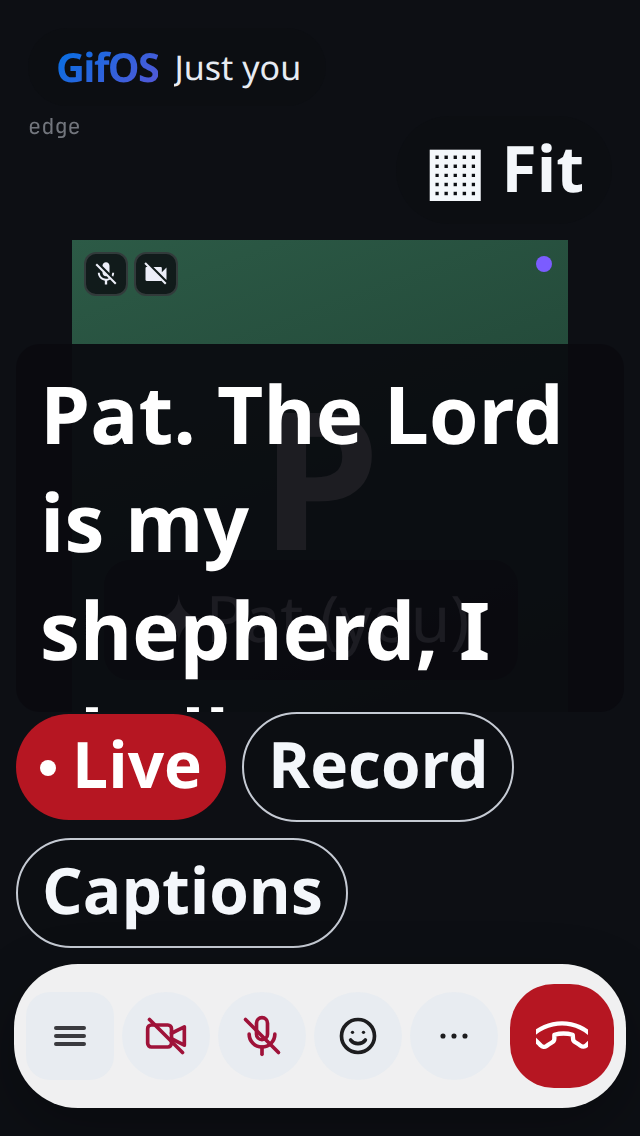
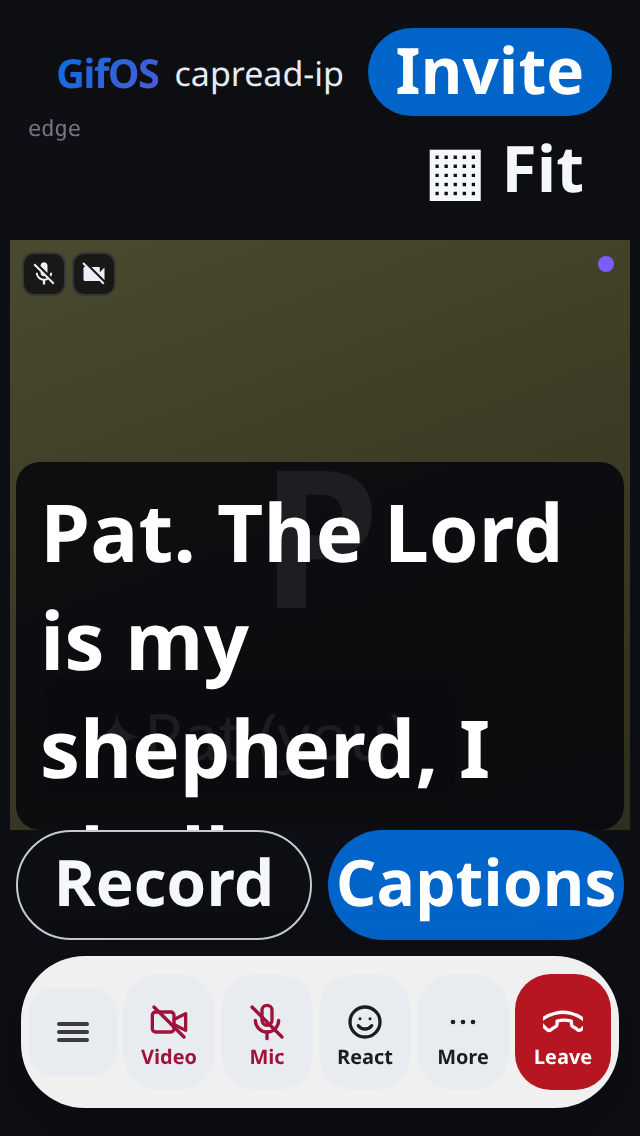
Meet: the caption tests turn CC on first.
Since a801ad4, captions show only on a screen that turned CC on. caption-read.js and caption-on-tile.js added a transcript line without tapping CC, so #livecap never showed and both failed ("no caption a member can read", "no caption on the call") on every phone. They now tap #call-cc first, as a member would.

Proof: both failed before this change (all 3 SE profiles / 2 SE profiles), both pass now: "PASS caption read", "PASS caption on tile".

diff --git a/test/mobile/caption-on-tile.js b/test/mobile/caption-on-tile.js
@@ -43,6 +43,9 @@ const PEOPLE = [
     if (await skip.count()) await skip.tap().catch(() => {});
     await page.evaluate((people) => window.__gifosVideo.presentPeers(people), PEOPLE);
     await page.waitForTimeout(400);
+    // Captions show only on a screen that turned CC on (a801ad4).
+    await page.locator('#call-cc').tap();
+    await page.waitForTimeout(150);
     await page.evaluate((line) => window.__gifosVideo.addTranscript(line), LINE);
     await page.waitForTimeout(400);
     const info = await page.evaluate(() => {

diff --git a/test/mobile/caption-read.js b/test/mobile/caption-read.js
@@ -48,6 +48,9 @@ function overlaps(a, b) {
     await page.waitForSelector('#leavebtn', { timeout: 15000 });
     const skip = page.locator('#nmok');
     if (await skip.count()) await skip.tap().catch(() => {});
+    // Captions show only on a screen that turned CC on (a801ad4).
+    await page.locator('#call-cc').tap();
+    await page.waitForTimeout(150);
     await page.evaluate((line) => window.__gifosVideo.addTranscript(line), LINE);
     await page.waitForTimeout(400);
     const info = await page.evaluate(() => {
